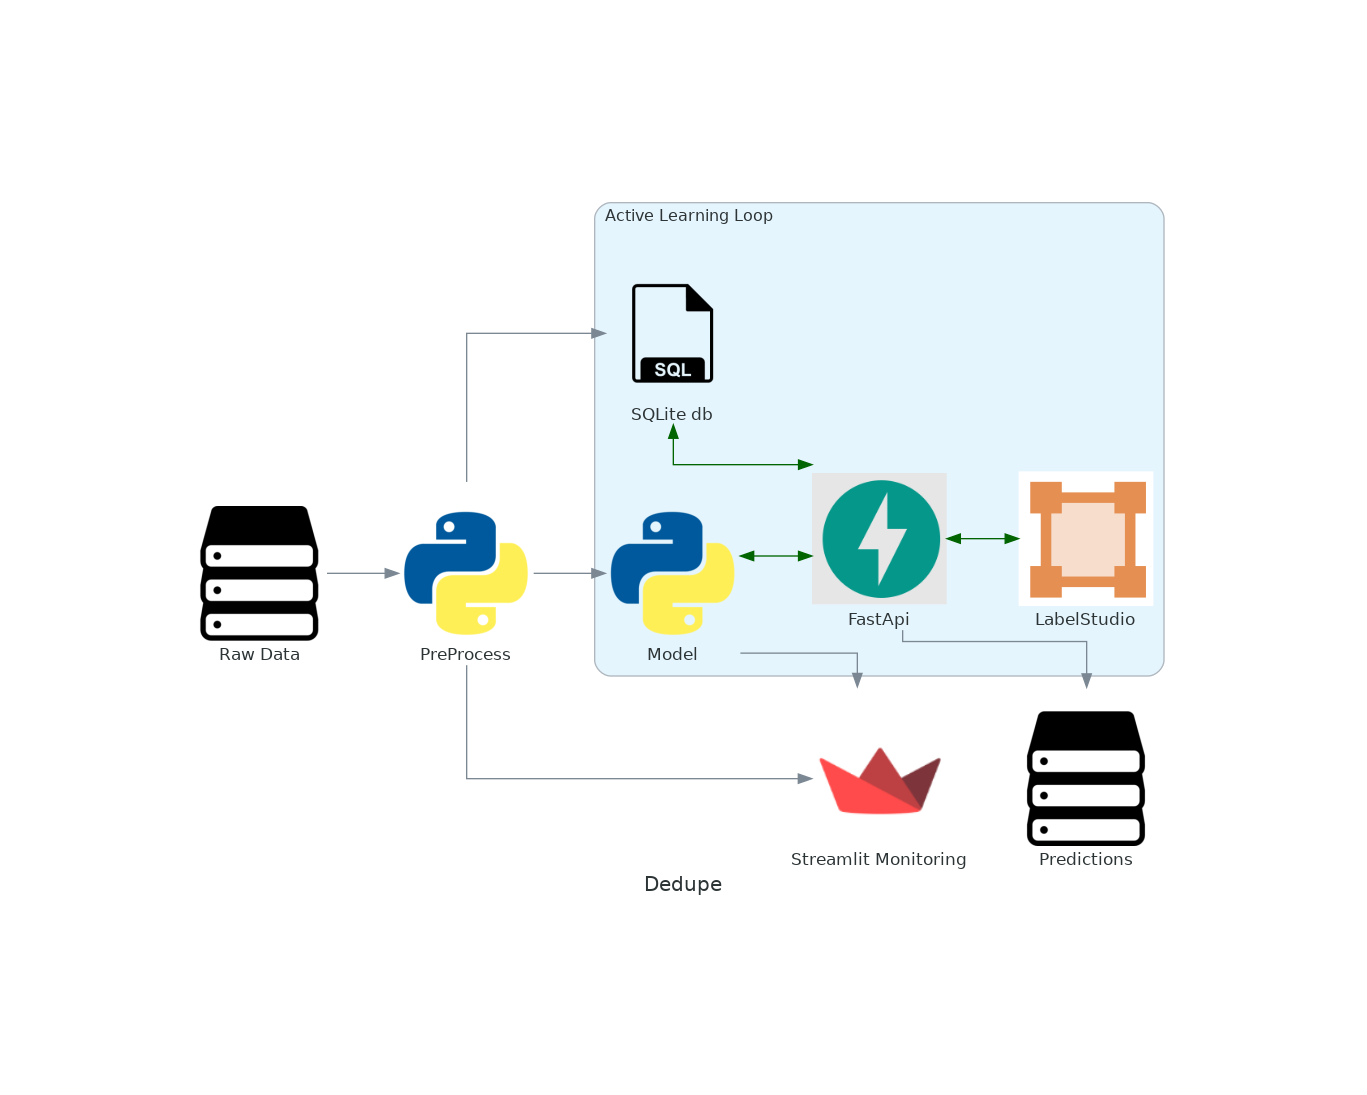
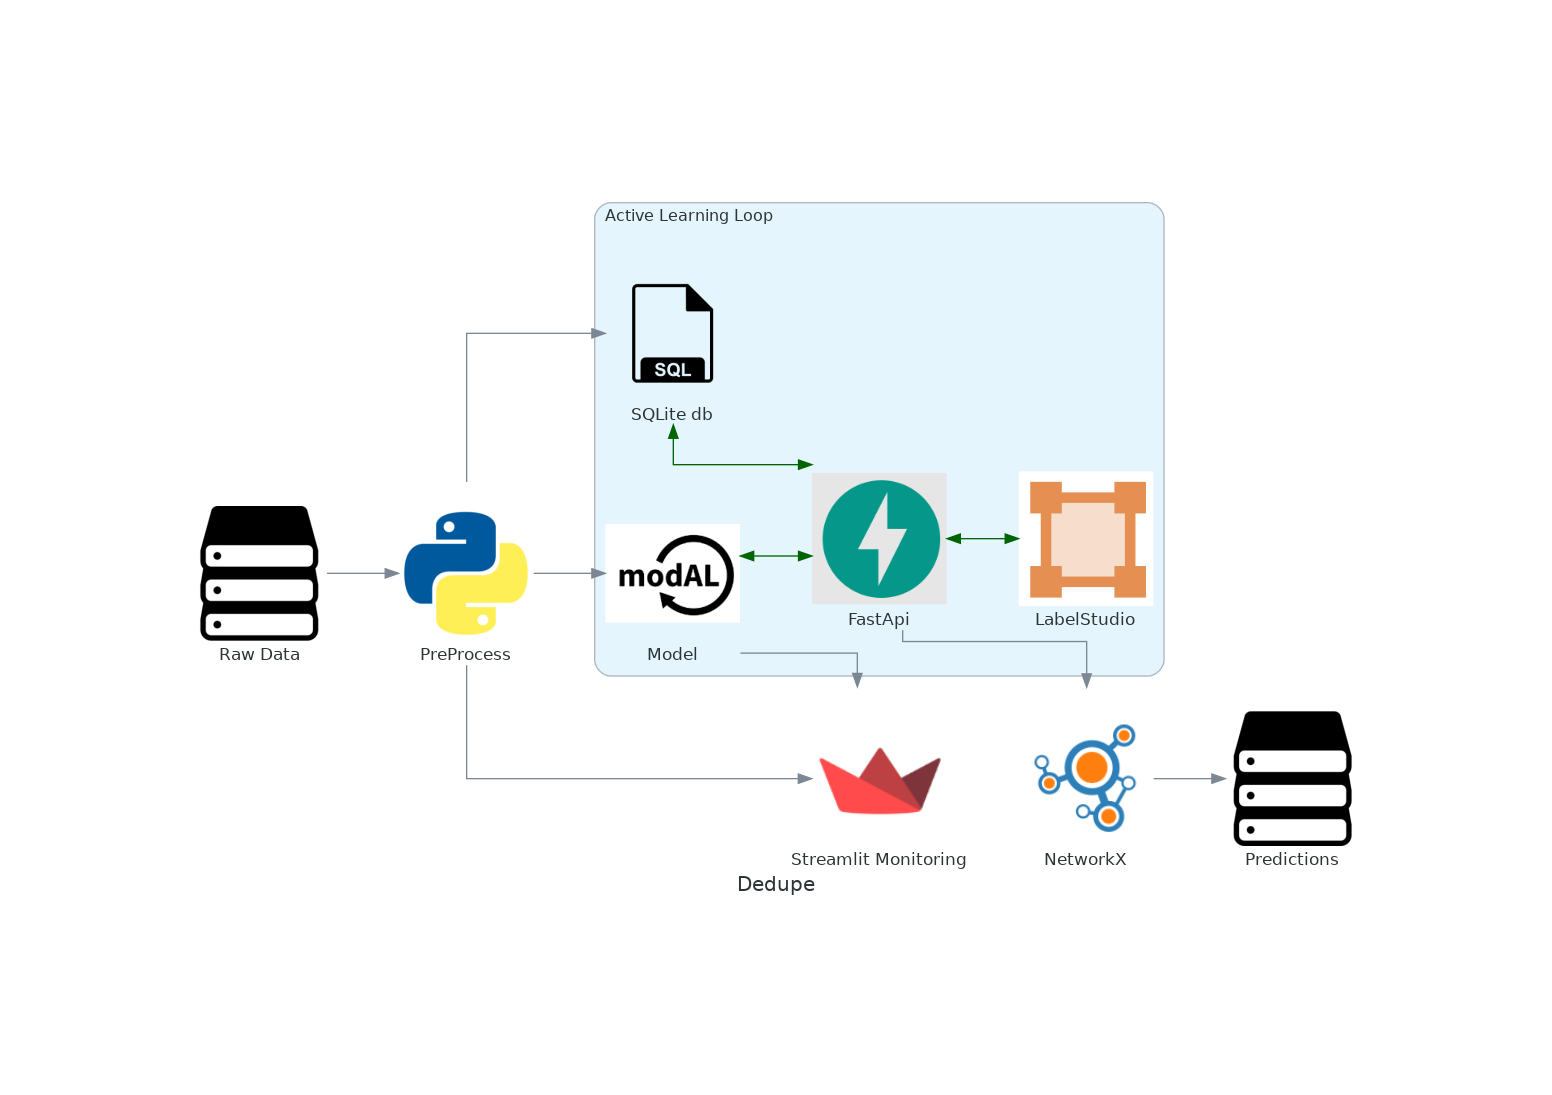
add readme for diagram

Changed region(s): [[0.1536, 0.1863, 0.891, 0.8384], [0.1229, 0.4658, 0.1536, 0.59]]

diff --git a/scripts/diagram/modelDiagram.py b/scripts/diagram/modelDiagram.py
@@ -14,7 +14,7 @@ with Diagram("Dedupe", show=False):
 
     with Cluster("Active Learning Loop"):
         sql = SQL("SQLite db")
-        model = Python("Model") 
+        model = Custom("Model", "img/modAl.png") 
         preprocess >> model 
         preprocess >> sql 
 
@@ -28,6 +28,7 @@ with Diagram("Dedupe", show=False):
     preprocess >> streamlit
     model >> streamlit
 
-    fastapi >> Storage("Predictions")
+    networkX = Custom("NetworkX", "img/networkX.png")
+    fastapi >> networkX >> Storage("Predictions")
     
 # %%

diff --git a/scripts/diagram/readme.md b/scripts/diagram/readme.md
@@ -1,3 +1,20 @@
 ![dedupe.png](dedupe.png)
 
-1. Dedupe uses blocking to preprocess
+1. Preprocess data (e.g. blocking) to get comparisons
+2. Move data and comparison candidates to database
+3. Initialize Modal:
+    - RandomForest
+    - Uncertainty Sampling
+4. Active Learn Loop:
+    - FastAPI initializes LabelStudio with uncertainty samples
+    - When queue is less than 5 tasks:
+        - FastAPI retrains model using labelled samples
+        - Pushes 20 new tasks to LabelStudio
+5. NetworkX clusters edges to connected components
+6. Generate Predictions
+
+Streamlit is used to monitor process
+- e.g. 
+    - block map coverage in preprocessing
+    - model performance on labelled data
+        
